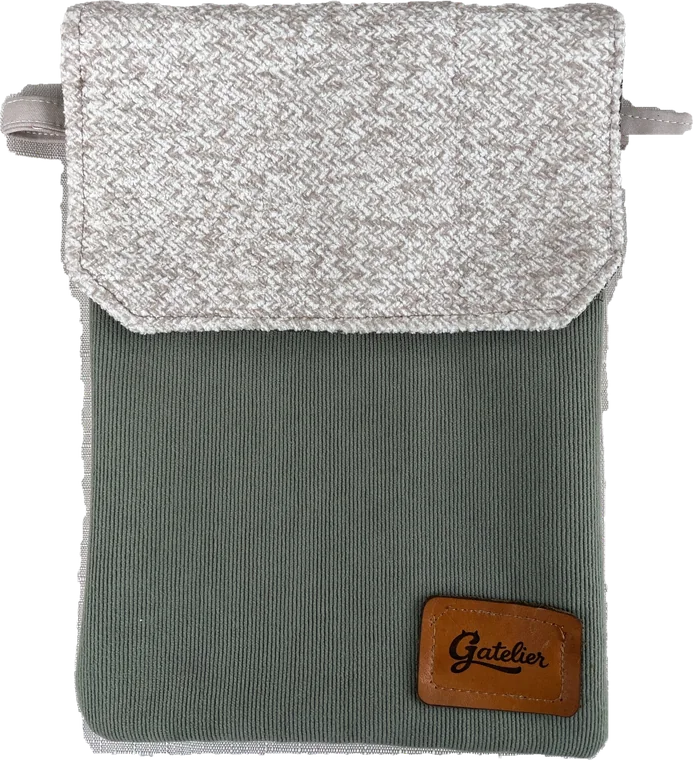
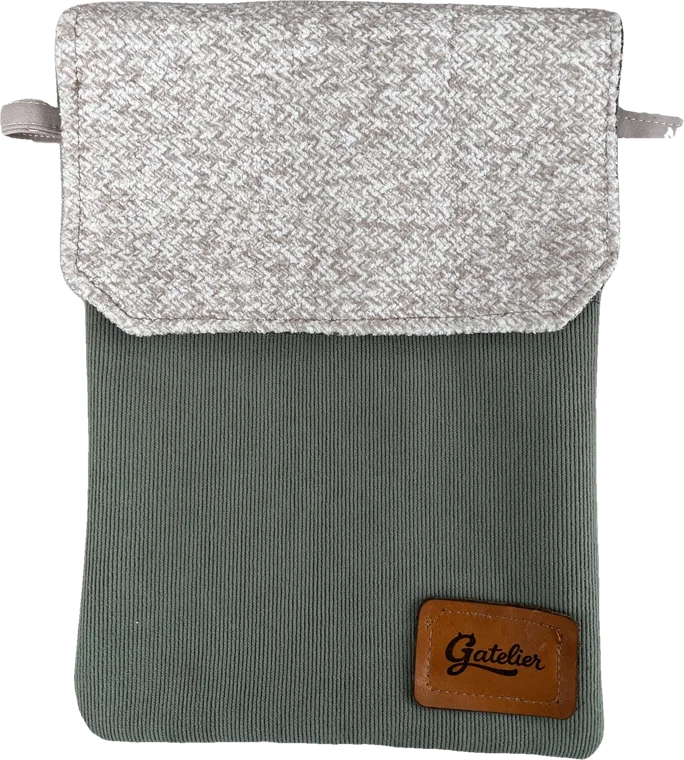
Colección: recortes corregidos de las fotos de cada talla
Bordes ajustados a la tela (sin franjas del mantel), presillas completas en
XS, S, M y XL, contorno trazado a mano en la L. ?v=2 para no usar la versión
guardada en el navegador.

Claude-Session: https://claude.ai/code/session_01UTFjnRfwxgxUd6XFAy6NGv

diff --git a/frontend/index.html b/frontend/index.html
@@ -395,11 +395,11 @@
 
     // Medidas confirmadas del producto (ancho × alto, cm). Precios y fotos de referencia de la galería.
     const SIZES=[
-      {code:'XS',w:14,h:21,price:70000,color:'Azul con solapa cruda',image:'talla-xs.webp',alt:'Funda talla XS azul con solapa cruda y presillas de cuadros',fits:['Libro de bolsillo','Lector electrónico de 6 pulgadas','Agenda o libreta pequeña']},
-      {code:'S',w:17,h:24,price:75000,color:'Verde salvia y espiga',image:'talla-s.webp',alt:'Funda talla S verde salvia con solapa crema en espiga',fits:['Libro en formato estándar','iPad mini','Cuaderno A5']},
-      {code:'M',w:20,h:29,price:80000,color:'Azul grisáceo y rosa',image:'talla-m.webp',alt:'Funda talla M azul grisáceo con solapa rosa',fits:['Libro de tapa dura','iPad de 11 pulgadas','Cuaderno B5']},
-      {code:'L',w:22,h:30,price:85000,color:'Gris y lino',image:'talla-l.webp',alt:'Funda talla L gris con solapa color lino',fits:['Libro ilustrado','Libreta o planeador grande','iPad de 11 pulgadas con estuche']},
-      {code:'XL',w:27,h:33,price:90000,color:'Petróleo y gris',image:'talla-xl.webp',alt:'Funda talla XL petróleo con solapa gris',fits:['Libro de arte o de gran formato','Portátil de 13 pulgadas','Cuaderno carta o A4']}
+      {code:'XS',w:14,h:21,price:70000,color:'Azul con solapa cruda',image:'talla-xs.webp?v=2',alt:'Funda talla XS azul con solapa cruda y presillas de cuadros',fits:['Libro de bolsillo','Lector electrónico de 6 pulgadas','Agenda o libreta pequeña']},
+      {code:'S',w:17,h:24,price:75000,color:'Verde salvia y espiga',image:'talla-s.webp?v=2',alt:'Funda talla S verde salvia con solapa crema en espiga',fits:['Libro en formato estándar','iPad mini','Cuaderno A5']},
+      {code:'M',w:20,h:29,price:80000,color:'Azul grisáceo y rosa',image:'talla-m.webp?v=2',alt:'Funda talla M azul grisáceo con solapa rosa',fits:['Libro de tapa dura','iPad de 11 pulgadas','Cuaderno B5']},
+      {code:'L',w:22,h:30,price:85000,color:'Gris y lino',image:'talla-l.webp?v=2',alt:'Funda talla L gris con solapa color lino',fits:['Libro ilustrado','Libreta o planeador grande','iPad de 11 pulgadas con estuche']},
+      {code:'XL',w:27,h:33,price:90000,color:'Petróleo y gris',image:'talla-xl.webp?v=2',alt:'Funda talla XL petróleo con solapa gris',fits:['Libro de arte o de gran formato','Portátil de 13 pulgadas','Cuaderno carta o A4']}
     ];
     const MARGIN=1.5;
     const sizeMsg=s=>`Hola, vi en la página de Gatelier el producto talla ${s.code} (${s.w} × ${s.h} cm, ${money(s.price)}). ¿Me confirman qué combinaciones tienen disponibles?`;
